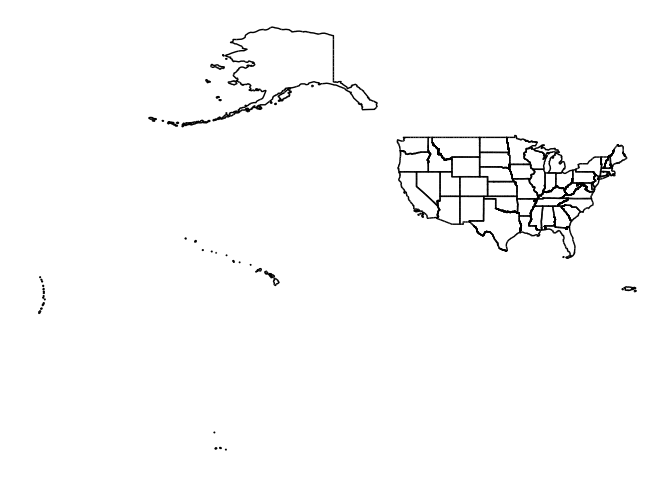
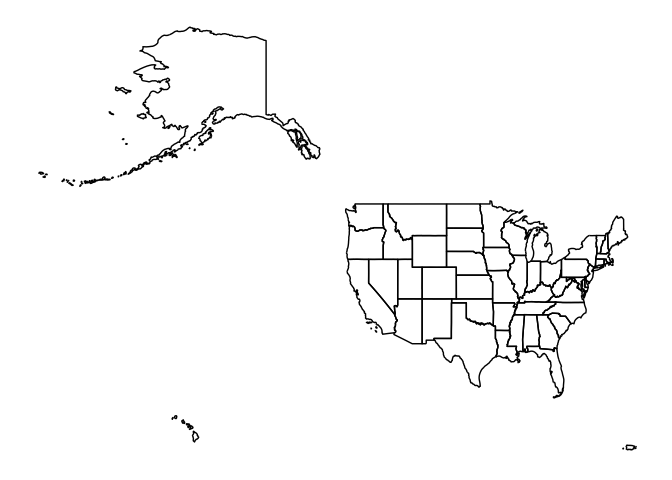
readme update

diff --git a/README.md b/README.md
@@ -9,8 +9,8 @@ pull-outs or zooms:
 Map of **all** US states and state equivalents as defined by the 2016
 Tiger shapefiles provided by the US Census Bureau:
 
-    data(states01)
-    states01 %>% 
+    data(states)
+    states %>% 
       ggplot(aes(x = long, y = lat)) + geom_path(aes(group = group)) +
       ggthemes::theme_map()
 
@@ -18,11 +18,29 @@ Tiger shapefiles provided by the US Census Bureau:
 
 The function `scale_shift` allows to scale and shift parts of the map:
 
-    states01 %>%
-      scale_shift("NAME", "Hawaii", shift = c(50, 5)) %>%
-      scale_shift("NAME", "Alaska", scale=0.3, shift=c(40,-32.5)) %>%
+    states %>%
+      scale_shift("NAME", "Hawaii", shift = c(52.5, 5.5)) %>%
+      scale_shift("NAME", "Alaska", scale=0.3, shift=c(39,-32.5)) %>%
       filter(lat > 20) %>%
      ggplot(aes(long, lat)) + geom_path(aes(group=group)) +
-      ggthemes::theme_map()
+      ggthemes::theme_map() 
 
-![](README_files/figure-markdown_strict/unnamed-chunk-5-1.png)
+![](README_files/figure-markdown_strict/unnamed-chunk-5-1.png) This map
+is available as data object `inset`.
+
+Sampling from a uniform distribution
+====================================
+
+This is what 3200 uniformly sampled locations across the US look like:
+![](README_files/figure-markdown_strict/unnamed-chunk-6-1.png) This is
+what the geographic distribution looks like when we sample 64 locations
+randomly from each state:
+![](README_files/figure-markdown_strict/unnamed-chunk-7-1.png) The map
+below is based state-wide population estimates published by the US
+Census Bureau for 2015. Each dot respresents about 100,000 residents in
+each state:
+
+    ## Warning in left_join_impl(x, y, by$x, by$y, suffix$x, suffix$y): joining
+    ## character vector and factor, coercing into character vector
+
+![](README_files/figure-markdown_strict/unnamed-chunk-8-1.png)
